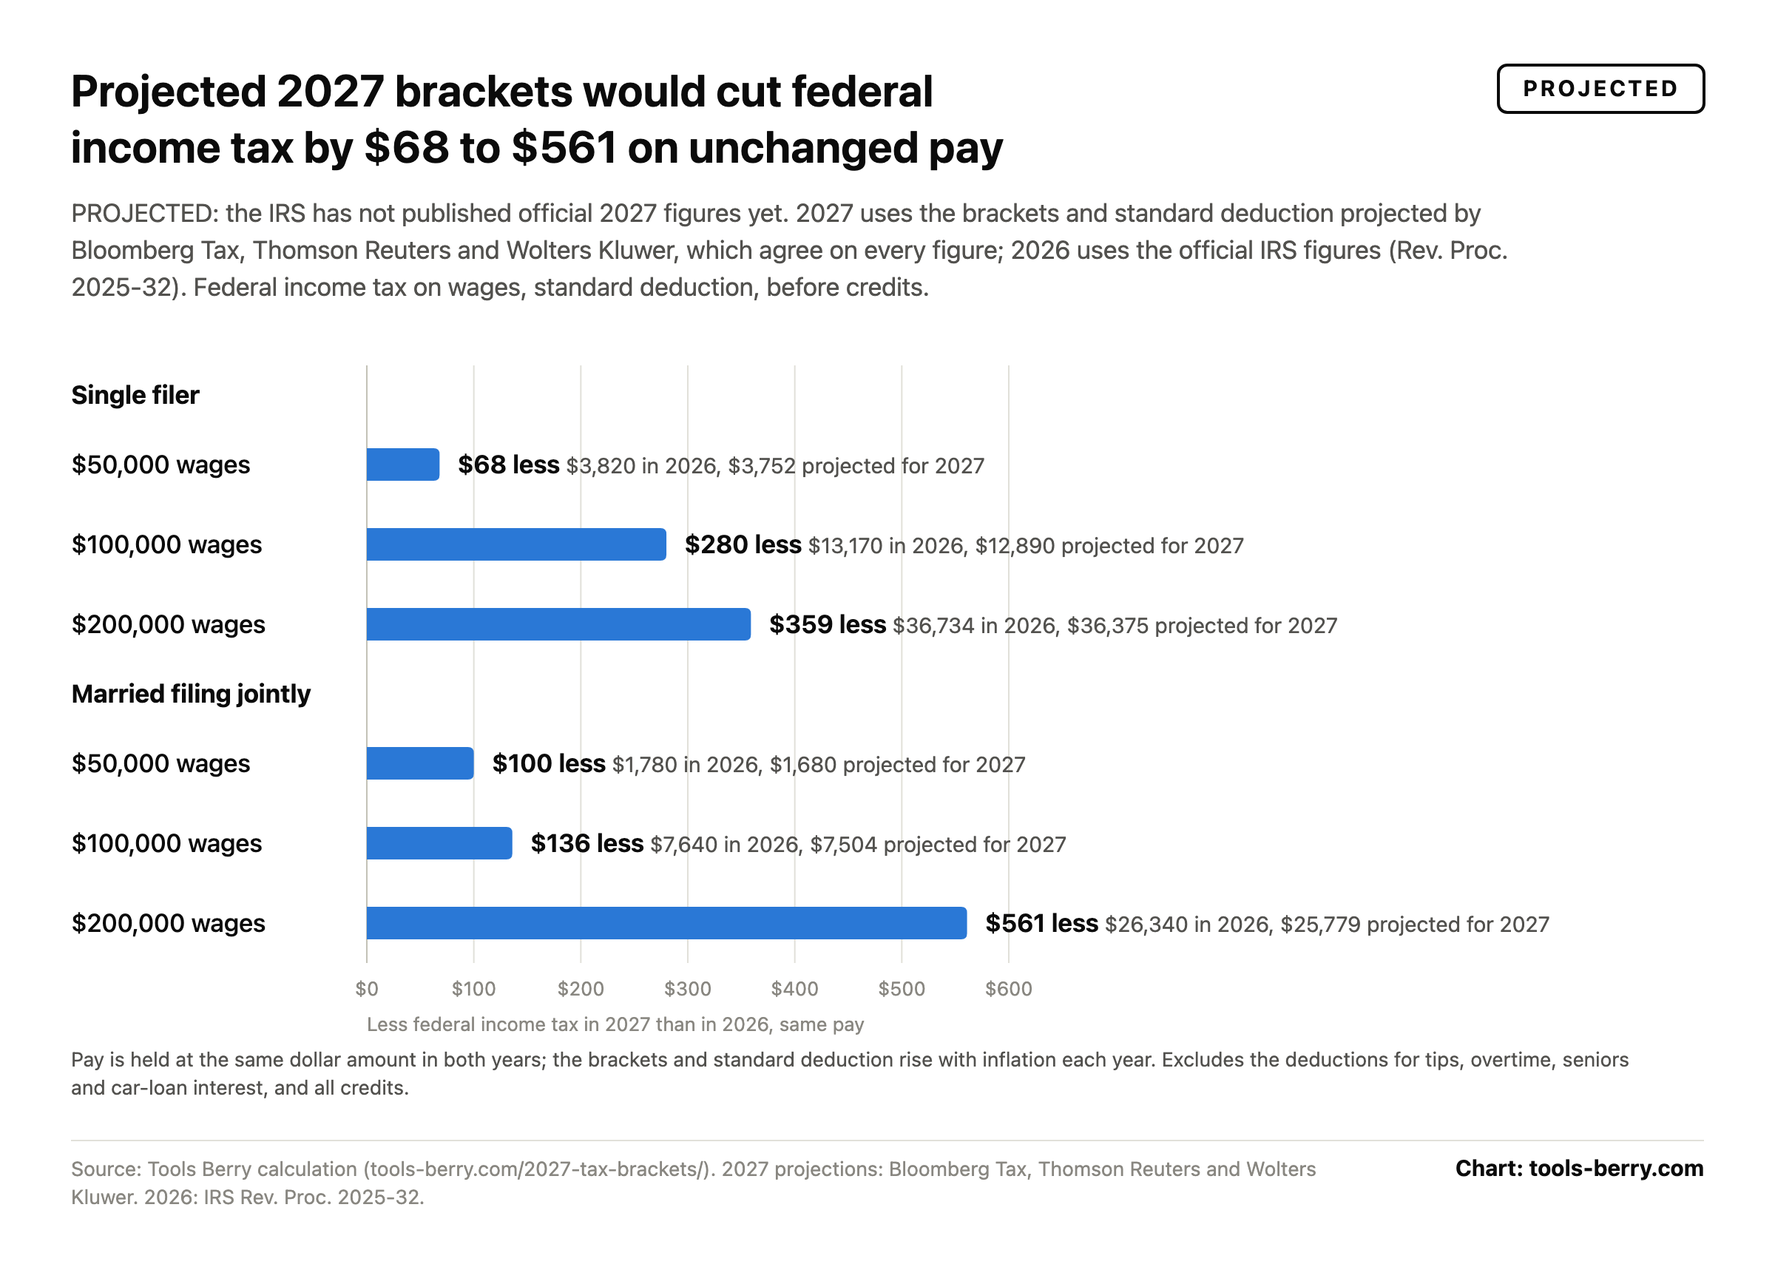
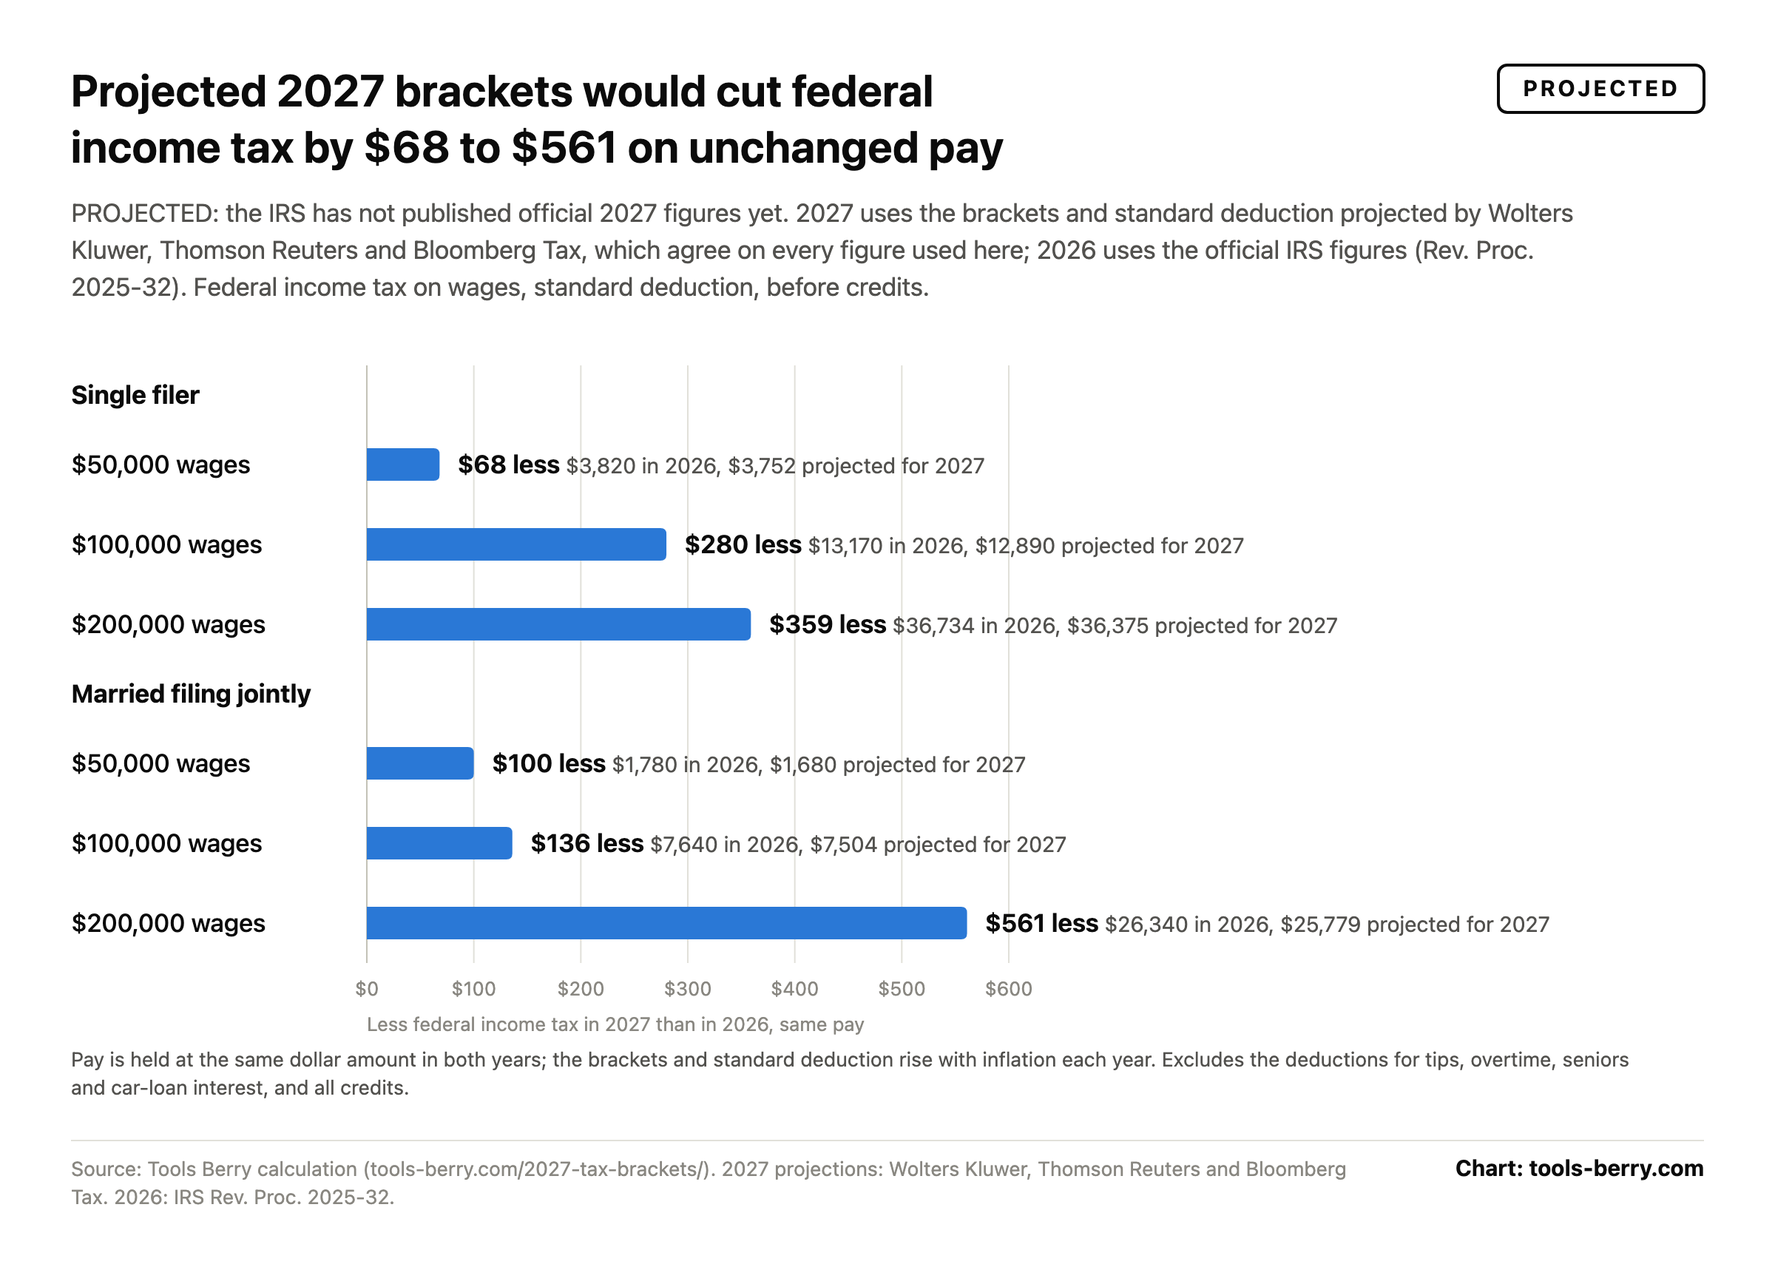
Chart 2027 federal tax from the publishers' projections in projections-2027.json and regenerate the press kit with DC current

diff --git a/scripts/press-kit/build-press-kit.js b/scripts/press-kit/build-press-kit.js
@@ -35,16 +35,22 @@
 //          { "federal": { "standardDeduction": {...}, "brackets": {...} },
 //            "revenueProcedure": { "name": "Rev. Proc. 2026-NN", "publishedDate": "...", "sourceUrl": "..." } }
 //        -> OFFICIAL
-//     c. projections-2027.json thirdPartyProjections, if an item (or the block)
-//        carries structured figures -> PROJECTED, attributed to its publishers
-//     d. FALLBACK_2027_PROJECTION in scripts/press-kit/inputs.js -> PROJECTED
-//        (TODO: remove once (c) lands)
+//     c. projections-2027.json thirdPartyProjections -> PROJECTED, attributed to
+//        every listed publisher. The block must pass the engine's own validator
+//        (thirdPartyBlockProblems, the check build.js renders it under), every
+//        item must carry single-number single and married-filing-jointly
+//        figures, and all items must agree on them exactly. Any disagreement
+//        FAILS the run: the chart names all publishers, so it cannot quietly
+//        use one publisher's numbers. Only the statuses charted (single, MFJ)
+//        are read; head-of-household figures are never used.
+//     There is no fallback: with none of (a) to (c) the run fails.
 //
 // FLAGS
 //   --svg-only              skip PNG rendering (no Chrome needed); PNGs left as they were
-//   --allow-expired-watch   proceed when a state's legal-status `_watch` has lapsed;
-//                           the state is then marked "under review" on the dot plot.
-//                           Without it the run fails, same as build.js.
+//   --allow-expired-watch   emergency override only, normally never passed: proceed
+//                           when a state's legal-status `_watch` has lapsed, marking
+//                           the state "under review" on the dot plot. Without it the
+//                           run fails, same as build.js.
 //   CHROME_PATH=...         override the Chrome binary.
 
 import { readFile, writeFile, mkdir, rm, mkdtemp } from 'node:fs/promises';
@@ -54,10 +60,12 @@ import { tmpdir } from 'node:os';
 import { join, dirname } from 'node:path';
 import { fileURLToPath, pathToFileURL } from 'node:url';
 import { federalIncomeTax, computePaycheck } from '../../src/engine/paycheck-engine.js';
-import { applyCola, colaPercent, average, windowStatus } from '../../src/engine/projections-2027.js';
+import {
+  applyCola, colaPercent, average, windowStatus, thirdPartyBlockProblems,
+} from '../../src/engine/projections-2027.js';
 import { colaChart, federalChart, takeHomeChart, usd } from './svg-charts.js';
 import {
-  PRESS_KIT_CONFIG as CFG, FALLBACK_2027_PROJECTION, loadPressKitInputs, inputsFingerprint,
+  PRESS_KIT_CONFIG as CFG, loadPressKitInputs, inputsFingerprint,
 } from './inputs.js';
 
 const ROOT = join(dirname(fileURLToPath(import.meta.url)), '..', '..');
@@ -198,13 +206,49 @@ function normFed(node, label) {
   }
   return out;
 }
-// Find structured figures anywhere sensible on a third-party item.
-function extractFed(o) {
-  if (!o || typeof o !== 'object') return null;
-  for (const n of [o, o.figures, o.federal, o.projection, o.projected]) {
-    if (n && typeof n === 'object' && n.standardDeduction && (n.brackets || n.bracketFloors || n.floors)) return n;
+// A publisher's display name: "Wolters Kluwer (CCH AnswerConnect)" -> "Wolters
+// Kluwer", the same trailing-parenthetical strip the 2027 pages apply.
+const pubName = (p) => String(p).replace(/\s*\([^)]*\)$/, '');
+
+// The charted statuses only (single, MFJ), as engine-shaped {standardDeduction, brackets}.
+function thirdPartyFed(it) {
+  const fed = { standardDeduction: {}, brackets: {} };
+  for (const st of CFG.federalStatuses) {
+    const sd = it.standardDeduction && it.standardDeduction[st.id];
+    need(Number.isInteger(sd), `thirdPartyProjections: ${it.publisher} has no single-number ${st.label} standard ` +
+      `deduction (found ${JSON.stringify(sd)}). The chart names every listed publisher, so each must carry the figures it shows.`);
+    const br = it.brackets && it.brackets[st.id];
+    need(Array.isArray(br), `thirdPartyProjections: ${it.publisher} has no ${st.label} brackets. ` +
+      'The chart names every listed publisher, so each must carry the figures it shows.');
+    fed.standardDeduction[st.id] = sd;
+    fed.brackets[st.id] = normBrackets(br, `${it.publisher} ${st.id}`);
   }
-  return null;
+  return fed;
+}
+
+function resolveThirdParty() {
+  const tp = proj.thirdPartyProjections;
+  need(tp, 'no official 2027 figures and projections-2027.json has no thirdPartyProjections block: nothing to chart 2027 from.');
+  const problems = thirdPartyBlockProblems(tp);
+  need(!problems.length, `thirdPartyProjections is malformed (build.js refuses it too):\n  ${problems.join('\n  ')}`);
+  need(tp.items.length, 'thirdPartyProjections has no items: nothing to chart 2027 from.');
+  const per = tp.items.map((it) => ({ it, fed: thirdPartyFed(it) }));
+  // Exact agreement per charted status, or stop. Never pick one publisher.
+  for (const st of CFG.federalStatuses) {
+    const sig = (f) => `standard deduction ${usd(f.standardDeduction[st.id])}, brackets end at ` +
+      f.brackets[st.id].filter((b) => b.upTo != null).map((b) => usd(b.upTo)).join(' / ');
+    const sigs = per.map((p) => sig(p.fed));
+    need(sigs.every((x) => x === sigs[0]),
+      `thirdPartyProjections: the publishers DISAGREE on ${st.label}:\n` +
+      per.map((p, i) => `  ${p.it.publisher}: ${sigs[i]}`).join('\n') +
+      '\nRefusing to pick one. Decide whose figures the chart uses, and say so on it, before regenerating.');
+  }
+  const items = tp.items.map((i) => ({ publisher: pubName(i.publisher), fullName: i.publisher, title: i.title,
+    date: i.asOf, sourceUrl: i.sourceUrl, monthsUsed: i.monthsUsed, skipped: i.skipped }));
+  return { status: 'PROJECTED', fed: per[0].fed,
+    source: { kind: 'thirdParty', publishers: items.map((i) => i.publisher), checkedDate: tp.checkedDate,
+      // The newest publication date among them: what "data as of" means for the projections.
+      date: items.map((i) => i.date).sort().pop(), items } };
 }
 
 function resolveFederal2027() {
@@ -222,35 +266,7 @@ function resolveFederal2027() {
     return { status: 'OFFICIAL', fed: normFed(proj.official2027.federal, 'official2027.federal'),
       source: { kind: 'irs', name: rp.name, sourceUrl: rp.sourceUrl, date: rp.publishedDate } };
   }
-  const tp = proj.thirdPartyProjections || {};
-  const found = [];
-  for (const it of tp.items || []) {
-    const n = extractFed(it);
-    if (n) found.push({ fed: normFed(n, `thirdPartyProjections item "${it.publisher}"`), item: it });
-  }
-  const block = extractFed(tp);
-  if (block && !found.length) {
-    found.push({ fed: normFed(block, 'thirdPartyProjections'), item: { publisher: null } });
-  }
-  if (found.length) {
-    const ref = JSON.stringify(found[0].fed);
-    for (const f of found)
-      need(JSON.stringify(f.fed) === ref, `thirdPartyProjections disagree (${f.item.publisher} differs). ` +
-        'The chart would have to say whose figures it uses; decide that before regenerating.');
-    const publishers = (tp.items || []).map((i) => i.publisher).filter(Boolean);
-    need(publishers.length, 'thirdPartyProjections has figures but no named publisher');
-    return { status: 'PROJECTED', fed: found[0].fed,
-      source: { kind: 'thirdParty', publishers,
-        items: (tp.items || []).map((i) => ({ publisher: i.publisher, date: i.publishedDate || i.asOf || null,
-          sourceUrl: i.sourceUrl || null })) } };
-  }
-  console.warn('press-kit: thirdPartyProjections has no structured 2027 figures yet; using ' +
-    'FALLBACK_2027_PROJECTION from scripts/press-kit/inputs.js (TODO: switch to the JSON).');
-  return { status: 'PROJECTED',
-    fed: normFed({ standardDeduction: FALLBACK_2027_PROJECTION.standardDeduction,
-      brackets: FALLBACK_2027_PROJECTION.bracketFloors }, 'FALLBACK_2027_PROJECTION'),
-    source: { kind: 'thirdParty', fallback: true, publishers: FALLBACK_2027_PROJECTION.publishers,
-      items: FALLBACK_2027_PROJECTION.publishers.map((p) => ({ publisher: p, date: null, sourceUrl: null })) } };
+  return resolveThirdParty();
 }
 
 // ---------------------------------------------------------------- compute
@@ -341,7 +357,7 @@ const fedTitle = chMin >= 0
   : `${fedOfficial ? 'New' : 'Projected'} 2027 brackets ${fedOfficial ? 'change' : 'would change'} federal income tax by ${usd(Math.abs(chMin))} more to ${usd(chMax)} less on unchanged pay`;
 const fedSubtitle = fedOfficial
   ? `Official 2027 figures from the IRS (${fed27.source.name}, published ${humanDate(fed27.source.date)}) compared with official 2026 figures (${rp26.name}). Federal income tax on wages, standard deduction, before credits.`
-  : `PROJECTED: the IRS has not published official 2027 figures yet. 2027 uses the brackets and standard deduction projected by ${listAnd(pubs)}${pubs.length > 1 ? ', which agree on every figure' : ''}; 2026 uses the official IRS figures (${rp26.name}). Federal income tax on wages, standard deduction, before credits.`;
+  : `PROJECTED: the IRS has not published official 2027 figures yet. 2027 uses the brackets and standard deduction projected by ${listAnd(pubs)}${pubs.length > 1 ? ', which agree on every figure used here' : ''}; 2026 uses the official IRS figures (${rp26.name}). Federal income tax on wages, standard deduction, before credits.`;
 const fedSource = fedOfficial
   ? `Source: Tools Berry calculation (tools-berry.com/2027-tax-brackets/). 2027: IRS ${fed27.source.name}. 2026: IRS ${rp26.name}.`
   : `Source: Tools Berry calculation (tools-berry.com/2027-tax-brackets/). 2027 projections: ${listAnd(pubs)}. 2026: IRS ${rp26.name}.`;
@@ -439,9 +455,12 @@ for (const r of colaRows) {
   }
 }
 const src26 = `IRS ${rp26.name} (${rp26.sourceUrl}); Tools Berry calculation`;
+// "2027 projections: Wolters Kluwer, September 18, 2026 (url); ..." one citation per publisher.
+const pubSources = fedOfficial ? '' : `${YEAR + 1} projections: ` + fed27.source.items
+  .map((i) => `${i.publisher}, ${humanDate(i.date)} (${i.sourceUrl})`).join('; ');
 const src27 = fedOfficial
   ? `IRS ${fed27.source.name} (${fed27.source.sourceUrl}); Tools Berry calculation`
-  : `Projected by ${listAnd(pubs)}; Tools Berry calculation`;
+  : `${pubSources}; Tools Berry calculation`;
 const st27 = fedOfficial ? 'OFFICIAL' : 'PROJECTED';
 const statusLabel = Object.fromEntries(CFG.federalStatuses.map((s) => [s.id, s.label.toLowerCase().replace(' filer', '')]));
 for (const g of fedGroups) {
@@ -456,7 +475,7 @@ for (const g of fedGroups) {
 }
 for (const g of CFG.federalStatuses) {
   for (const [yr, fed, st, src] of [[YEAR, fed26, 'OFFICIAL', `IRS ${rp26.name} (${rp26.sourceUrl})`],
-    [YEAR + 1, fed27.fed, st27, fedOfficial ? `IRS ${fed27.source.name} (${fed27.source.sourceUrl})` : `Projected by ${listAnd(pubs)}`]]) {
+    [YEAR + 1, fed27.fed, st27, fedOfficial ? `IRS ${fed27.source.name} (${fed27.source.sourceUrl})` : pubSources]]) {
     csv.push(['Federal tax inputs', st, 'United States', '', statusLabel[g.id], '', '',
       `standard deduction, ${yr}`, fed.standardDeduction[g.id], '', src]);
     let lower = 0;
@@ -564,7 +583,9 @@ const manifest = {
     title: colaCopy.title, subtitle: colaCopy.subtitle, rows: colaRows },
   federal: { status2027: fed27.status, source2027: fed27.source,
     source2026: { name: rp26.name, sourceUrl: rp26.sourceUrl, date: rp26.publishedDate },
-    standardDeduction: { [YEAR]: fed26.standardDeduction, [YEAR + 1]: fed27.fed.standardDeduction },
+    // Charted statuses only, so nothing downstream can surface a figure the charts do not use.
+    standardDeduction: Object.fromEntries([[YEAR, fed26], [YEAR + 1, fed27.fed]].map(([y, f]) =>
+      [y, Object.fromEntries(CFG.federalStatuses.map((st) => [st.id, f.standardDeduction[st.id]]))])),
     title: fedTitle, subtitle: fedSubtitle, groups: fedGroups },
   takeHome: { year: YEAR, salaries, filingStatus: 'single', title: thTitle, subtitle: thSubtitle,
     spreads, notes: priorNotes, underReview: expiredWatch,
@@ -575,7 +596,7 @@ await writeFile(join(OUT, 'manifest.json'), JSON.stringify(manifest, null, 2) + 
 
 console.log(`press-kit: wrote ${OUT}`);
 console.log(`  COLA        ${cola.status} ${pct1(cola.percent)} (${cola.publisher}, ${cola.date})`);
-console.log(`  2027 federal ${fed27.status}${fed27.source.fallback ? ' (FALLBACK constant)' : ''}: ${pubs.join(', ') || fed27.source.name}`);
+console.log(`  2027 federal ${fed27.status}: ${pubs.join(', ') || fed27.source.name}`);
 console.log(`  take-home   ${thRows.length} jurisdictions x ${salaries.length} salaries${expiredWatch.length ? `, UNDER REVIEW: ${expiredWatch.map((w) => w.slug).join(', ')}` : ''}`);
 for (const [k, s] of Object.entries(pngSizes)) console.log(`  ${FILES[k]}.png ${s.w}x${s.h}`);
 console.log(`  fingerprint ${manifest.inputsFingerprint}`);

diff --git a/src/content/press-kit-2027.js b/src/content/press-kit-2027.js
@@ -31,6 +31,13 @@ export function pressKitParts(m, { contactEmail }) {
   const yr = m.taxYear;
   const fedOfficial = fed.status2027 === 'OFFICIAL';
   const pubs = (fed.source2027 && fed.source2027.publishers) || [];
+  const tpItems = (!fedOfficial && fed.source2027.items) || [];
+  // "published September 11 to September 18, 2026": the span of the publishers' own dates.
+  const tpDays = [...new Set(tpItems.map((i) => i.date))].sort();
+  const tpPublished = !tpDays.length ? ''
+    : tpDays.length === 1 ? `published ${humanDate(tpDays[0])}`
+      : `published ${humanDate(tpDays[0]).replace(/, \d{4}$/, tpDays[0].slice(0, 4) === tpDays[tpDays.length - 1].slice(0, 4) ? '' : '$&')} ` +
+        `to ${humanDate(tpDays[tpDays.length - 1])}`;
   const hi = th.spreads[th.spreads.length - 1];
   const priorRows = th.rows.filter((r) => r.priorYear);
 
@@ -46,8 +53,8 @@ export function pressKitParts(m, { contactEmail }) {
   }[cola.status];
   const fedStatusText = fedOfficial
     ? `Official IRS figures, ${esc(fed.source2027.name)}, published ${esc(humanDate(fed.source2027.date))}.`
-    : `Projections published by ${esc(listAnd(pubs))}. The IRS has not published official 2027 figures yet; ` +
-      'it usually does between early October and early November.';
+    : `Projections by ${esc(listAnd(pubs))}, ${esc(tpPublished)}. The IRS has not published ` +
+      'official 2027 figures yet; it usually does between early October and early November.';
   const statusRows = [
     ['2027 Social Security cost-of-living increase (COLA)', cola.status, colaStatusText],
     [`${yr + 1} federal income tax brackets and standard deduction`, fed.status2027, fedStatusText],
@@ -127,11 +134,24 @@ export function pressKitParts(m, { contactEmail }) {
     'before Medicare premiums or tax withholding, which come out of many checks. Try any payment in our ' +
     '<a href="/2027-social-security-cola/">2027 COLA calculator</a>.</p>';
 
+  // How the publishers handled the price month that was never published, read
+  // from the data rather than asserted.
+  const skippedSig = (i) => `${i.monthsUsed}|${(i.skipped || []).join(',')}`;
+  const monthName = (k) => { const [y, m] = String(k).split('-'); return `${MONTHS[+m - 1]} ${y}`; };
+  const gapMethod = !tpItems.length ? ''
+    : tpItems.every((i) => skippedSig(i) === skippedSig(tpItems[0]))
+      ? (tpItems[0].skipped.length
+        ? `${tpItems.length > 1 ? 'Each' : 'It'} averaged the ${esc(tpItems[0].monthsUsed)} published months of the price ` +
+          `index and left out ${esc(listAnd(tpItems[0].skipped.map(monthName)))} (see the missing month, below). `
+        : `${tpItems.length > 1 ? 'Each' : 'It'} used all ${esc(tpItems[0].monthsUsed)} months of the price index. `)
+      : 'They handled the missing price month differently (see the missing month, below). ';
   const fedSource = fedOfficial
     ? `<p><strong>Both years are official IRS figures.</strong> ${esc(yr + 1)}: ${link(fed.source2027.sourceUrl, fed.source2027.name)}, ` +
       `published ${esc(humanDate(fed.source2027.date))}. ${esc(yr)}: ${link(fed.source2026.sourceUrl, fed.source2026.name)}.</p>`
     : `<p><strong>The ${esc(yr + 1)} figures are projections, not IRS figures.</strong> The brackets and standard ` +
-      `deduction come from projections published by ${esc(listAnd(pubs))}${pubs.length > 1 ? ', which agree on every figure' : ''}. ` +
+      `deduction come from projections published by ${listAnd(tpItems.map((i) =>
+        `${link(i.sourceUrl, i.publisher)} (${esc(humanDate(i.date))})`))}` +
+      `${tpItems.length > 1 ? ', which agree on every figure used here' : ''}. ${gapMethod}` +
       `The ${esc(yr)} figures are official: ${link(fed.source2026.sourceUrl, `IRS ${fed.source2026.name}`)}, published ` +
       `${esc(humanDate(fed.source2026.date))}.</p>`;
   const sd = fed.standardDeduction;
@@ -141,7 +161,11 @@ export function pressKitParts(m, { contactEmail }) {
     'rest through the brackets, using the same calculation as our paycheck calculators. Wages are the only income, ' +
     'there are no credits, and the newer deductions for tips, overtime, seniors and car-loan interest are left out. ' +
     'Pay is held at the same dollar amount in both years, so the difference is what inflation adjustments to the tax ' +
-    'brackets alone are worth. Compare the brackets on our <a href="/2027-tax-brackets/">2027 tax brackets page</a>.</p>';
+    'brackets alone are worth.</p>' +
+    (fedOfficial
+      ? '<p>The full brackets for every filing status are on our <a href="/2027-tax-brackets/">2027 tax brackets page</a>.</p>'
+      : '<p>Our <a href="/2027-tax-brackets/#others">2027 tax brackets page</a> shows each publisher\'s projected brackets ' +
+        'and standard deduction side by side, with a link to each publisher\'s own release.</p>');
 
   const priorText = priorRows.length
     ? `<p>${esc(priorRows.length)} jurisdictions had not published a ${esc(yr)} amount when these figures were made, ` +

diff --git a/scripts/press-kit/inputs.js b/scripts/press-kit/inputs.js
@@ -26,22 +26,6 @@ export const PRESS_KIT_CONFIG = {
   takeHomeSalaries: [75000, 100000],
 };
 
-// TODO(thirdPartyProjections): delete this constant once
-// src/data/projections-2027.json -> thirdPartyProjections carries the
-// structured 2027 figures (a parallel branch is adding them). Until then it is
-// the ONE place the projected 2027 numbers live. Figures as supplied for the
-// press kit on 2026-10-02: identical across all three publishers. Not yet
-// cross-checked against the publishers' own pages by this branch.
-export const FALLBACK_2027_PROJECTION = {
-  publishers: ['Bloomberg Tax', 'Thomson Reuters', 'Wolters Kluwer'],
-  standardDeduction: { single: 16600, married: 33200 },
-  // Bracket FLOORS (taxable income where each rate starts). 10% starts at $0.
-  bracketFloors: {
-    single: { 0.10: 0, 0.12: 12800, 0.22: 52025, 0.24: 109125, 0.32: 208325, 0.35: 264550, 0.37: 661375 },
-    married: { 0.10: 0, 0.12: 25600, 0.22: 104050, 0.24: 218250, 0.32: 416650, 0.35: 529100, 0.37: 793650 },
-  },
-};
-
 /** Read every data file the kit depends on. tax-data-2027.json is optional. */
 export async function loadPressKitInputs(root) {
   const read = async (...p) => JSON.parse(await readFile(join(root, ...p), 'utf8'));
@@ -85,7 +69,6 @@ export function inputsFingerprint({ taxData, proj, roster, taxData2027 }, config
       : null,
     roster,
     config,
-    fallback: FALLBACK_2027_PROJECTION,
   };
   return createHash('sha256').update(JSON.stringify(basis)).digest('hex').slice(0, 16);
 }

diff --git a/docs/press-kit/pitch-templates.md b/docs/press-kit/pitch-templates.md
@@ -48,6 +48,6 @@ words instead of "less".
 
 | Check | Why |
 |---|---|
-| The linked page shows the official figure | /2027-tax-brackets/ currently publishes no dollar figures by design; on IRS day it must be updated before Variant B goes out |
+| The linked page shows the official figure | /2027-tax-brackets/ currently shows the three publishers' projections side by side; on IRS day it must be switched to the official figures before Variant B goes out |
 | /press/2027/ is deployed | The page ships with every build but is unlisted (noindex, no sitemap); the link works only after a deploy |
 | `hello@tools-berry.com` receives mail | The press page offers custom figures by email |
